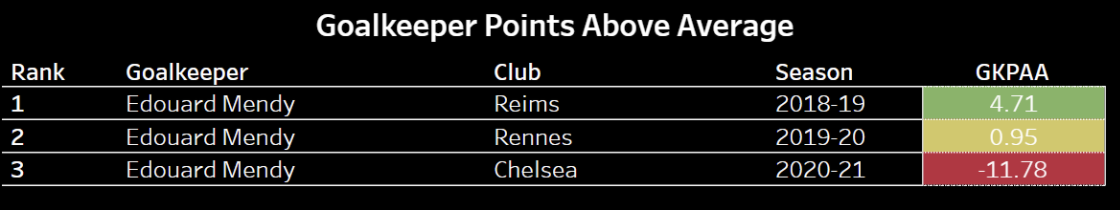
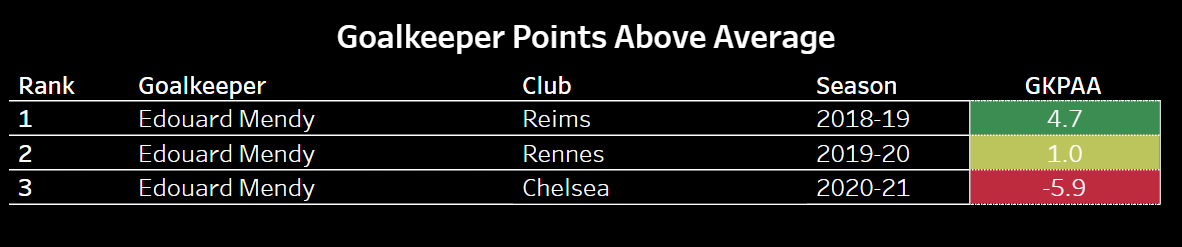
CORRECTED GKPAA ARTICLE

Changed region(s): [[0.0, 0.2857, 1.0, 0.9143], [0.2812, 0.0571, 0.7188, 0.2286]]

diff --git a/blog/which-goalkeepers-add-the-most-points.html b/blog/which-goalkeepers-add-the-most-points.html
@@ -137,7 +137,7 @@
     </h13>
     <br></br>
     <h13>
-      I started trying to use a linear regression but ran into issues of multicollinearity because the xGA for teams was highly correlated with their goalkeepers’ Save%AE. After some advice from Piotr Wawrzynów (@pwawrzynow on Twitter) I decided to use a Random Forest Regression which would eliminate the issue of multicollinearity.
+      I started trying to use a linear regression but ran into issues of multicollinearity because the xGA for teams was highly correlated with their goalkeepers’ performance. After some advice from Piotr Wawrzynów (@pwawrzynow on Twitter) I decided to use a Random Forest Regression which would eliminate the issue of multicollinearity.
     </h13>
     <br></br>
     <h13>
@@ -189,7 +189,7 @@
     <br></br>
 
     <h13>
-      People often talk about how valuable goalkeepers can be to clubs, now we have a way of seeing just how many points a goalkeeper can add or lose. I think this metric is best evaluated at the end of the season when luck has likely evened out and you can truly evaluate a keeper’s impact on the team. 
+      People often talk about how valuable goalkeepers can be to clubs, now we have a way of seeing just how many points a goalkeeper can add or lose. I think this metric is best evaluated at the end of the season when luck has likely evened out and you can truly evaluate a keeper’s impact on the team.
     </h13>
     <br></br>
 
@@ -210,7 +210,7 @@
     <br></br>
 
     <h13>
-      I would like to say it’s too early to be drawing conclusions from this model about this current season. We aren’t even halfway done with it so be warned. As you can see here Mathew Ryan of Brighton is in last, I suspect it’s down to Brighton’s underperformance of expected goals this season. Expect him and Brighton to have bounced back by the end of this season. 
+      I would like to say it’s too early to be drawing conclusions from this model about this current season. We aren’t even halfway done with it so be warned. As you can see here Mathew Ryan of Brighton is in last, I suspect it’s down to Brighton’s underperformance of expected goals this season. Expect him and Brighton to have bounced back by the end of this season.
     </h13>
     <br></br>
 
@@ -220,7 +220,7 @@
     <br></br>
 
     <h13>
-      It seems like the best and worst goalkeepers can make a difference of around 6 points, which is equivalent to two wins. I think this is reasonable and matches what many around the game have said about a goalies impact. 
+      It seems like the best and worst goalkeepers can make a difference of around 6 points, which is equivalent to two wins. I think this is reasonable and matches what many around the game have said about a goalies impact.
     </h13>
     <br></br>
 
@@ -238,7 +238,7 @@
     <img src="../blog-img/which-goalkeepers-add-the-most-points/which-goalkeepers-add-the-most-points-6.png" class="img-responsive" style="width:80%; display: block; margin-left: auto;margin-right: auto;">
     <br>
     <h13>
-      Chelsea’s goalkeeper woes with Kepa led them to buy Edouard Mendy this season. After above average seasons in 2018/19 and 2019/20, Mendy is so far having a terrible season. Mendy is more than 11 points below average to this point. However, we’ll have to see how he fairs over the course of the season to make a definitive judgement. 
+      Chelsea’s goalkeeper woes with Kepa led them to buy Edouard Mendy this season. After above average seasons in 2018/19 and 2019/20, Mendy is so far having a down season. He is more than 5 points below average to this point. However, we’ll have to see how he fairs over the course of the season to make a definitive judgement.
     </h13>
 
     <br></br>
@@ -246,7 +246,7 @@
     <img src="../blog-img/which-goalkeepers-add-the-most-points/which-goalkeepers-add-the-most-points-7.png" class="img-responsive" style="width:80%; display: block; margin-left: auto;margin-right: auto;">
     <br>
     <h13>
-      Back in 2018 Real Madrid bought Thibaut Courtois to replace Keylor Navas for $38.5 million. It was a move many questioned because Navas was so highly regarded. But in hindsight, it looks like the right decision.    
+      Back in 2018 Real Madrid bought Thibaut Courtois to replace Keylor Navas for $38.5 million. It was a move many questioned because Navas was so highly regarded. But in hindsight, it looks like the right decision.
     </h13>
 
     <br></br>
